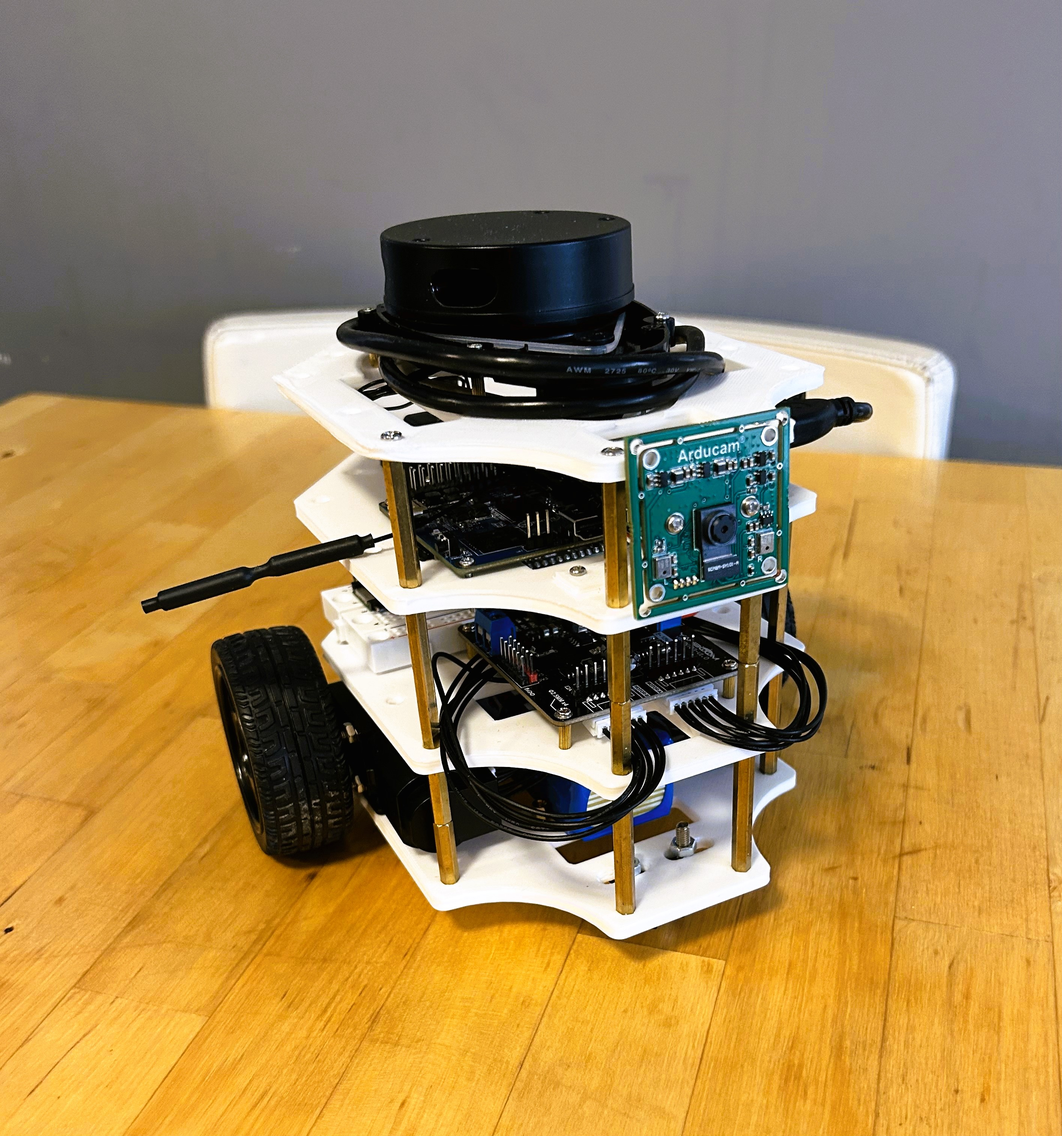
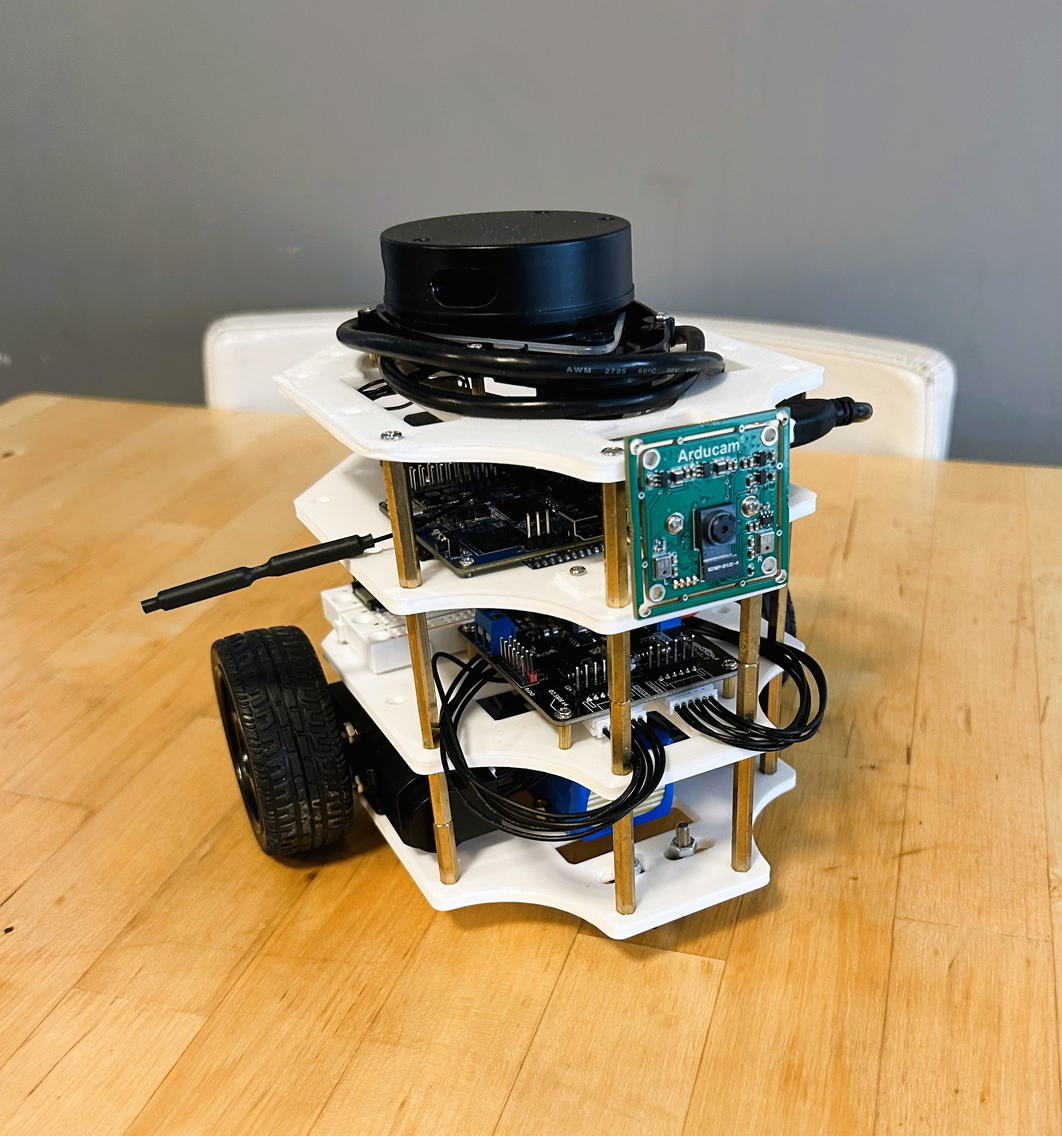
fix: change the img filter

diff --git a/docs/blog/posts/20240121.md b/docs/blog/posts/20240121.md
@@ -12,6 +12,4 @@ This week we basically finish up building the hardware for the whole "ddbot" rob
 **Progress**: On the third layer, we add a OrangePi 3 LTS as the high-level central controller responsible for managing all peripherals, including sensors, and coordinating with other modules such as the ESP32 located on the second layer. It runs a modified verison of Linux Ubuntu operating system. Moreover, we attach a 8MP USB video camera (UVC) module on this layer at the very front of the robot body. This is required for all vision-based tasks. On the fourth layer, we add a Time-of-Flight (ToF)-based 2D LiDAR at the top for scanning the distance of nearby environment. This is useful for projects such as SLAM and collision avoidance. The robot is shown in the image below.
 ![ddbot whole body](../../assets/img/IMG_1977.jpeg "ddbot whole body") 
 
-
-
-**Plan**: Over the following weeks, we shift the foucs to software development, from verifying all hardware modules to adding sevaral AI-based projects and their tutorials. In terms of the software proramming language, we will choose Python as it is widely used in AI & deep learning community and is easy to learn. Specifically, we will use Python within the Linux OS on the OrangePi and use its micro-controller version, named CircuitPython, on the ESP32. 
+**Plan**: Over the following weeks, we shift the foucs to software development, from verifying all hardware modules to adding sevaral AI-based projects and their tutorials. In terms of the software proramming language, we will choose Python as it is widely used in AI & deep learning community and is easy to learn. Specifically, we will use Python within the Linux OS on the OrangePi and use its micro-controller version, named CircuitPython, on the ESP32. Stay tuned ...
